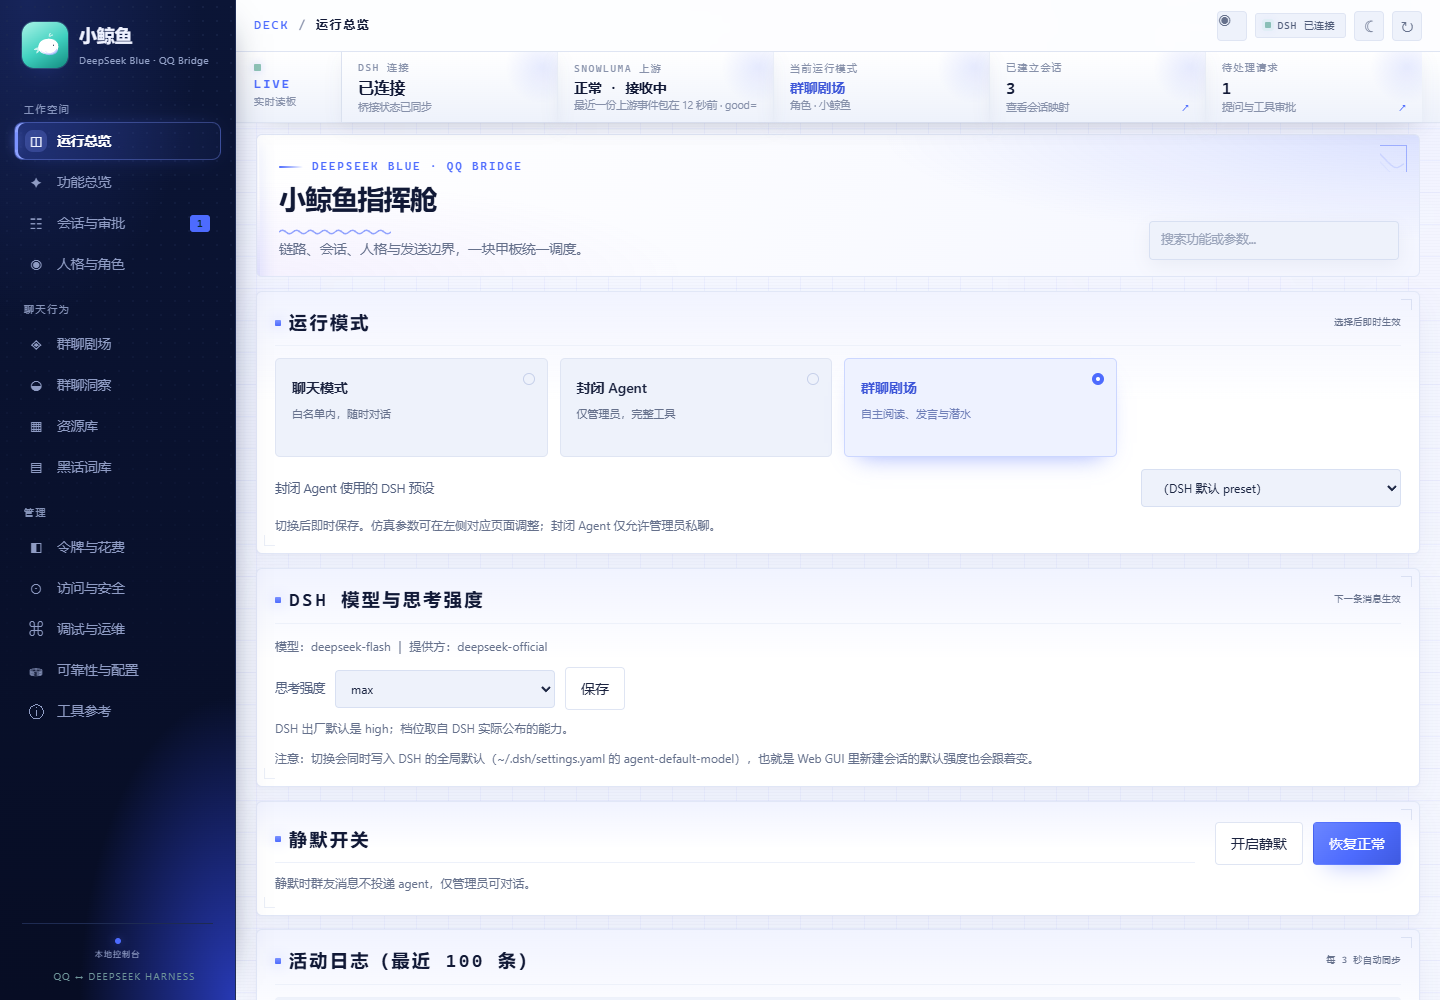
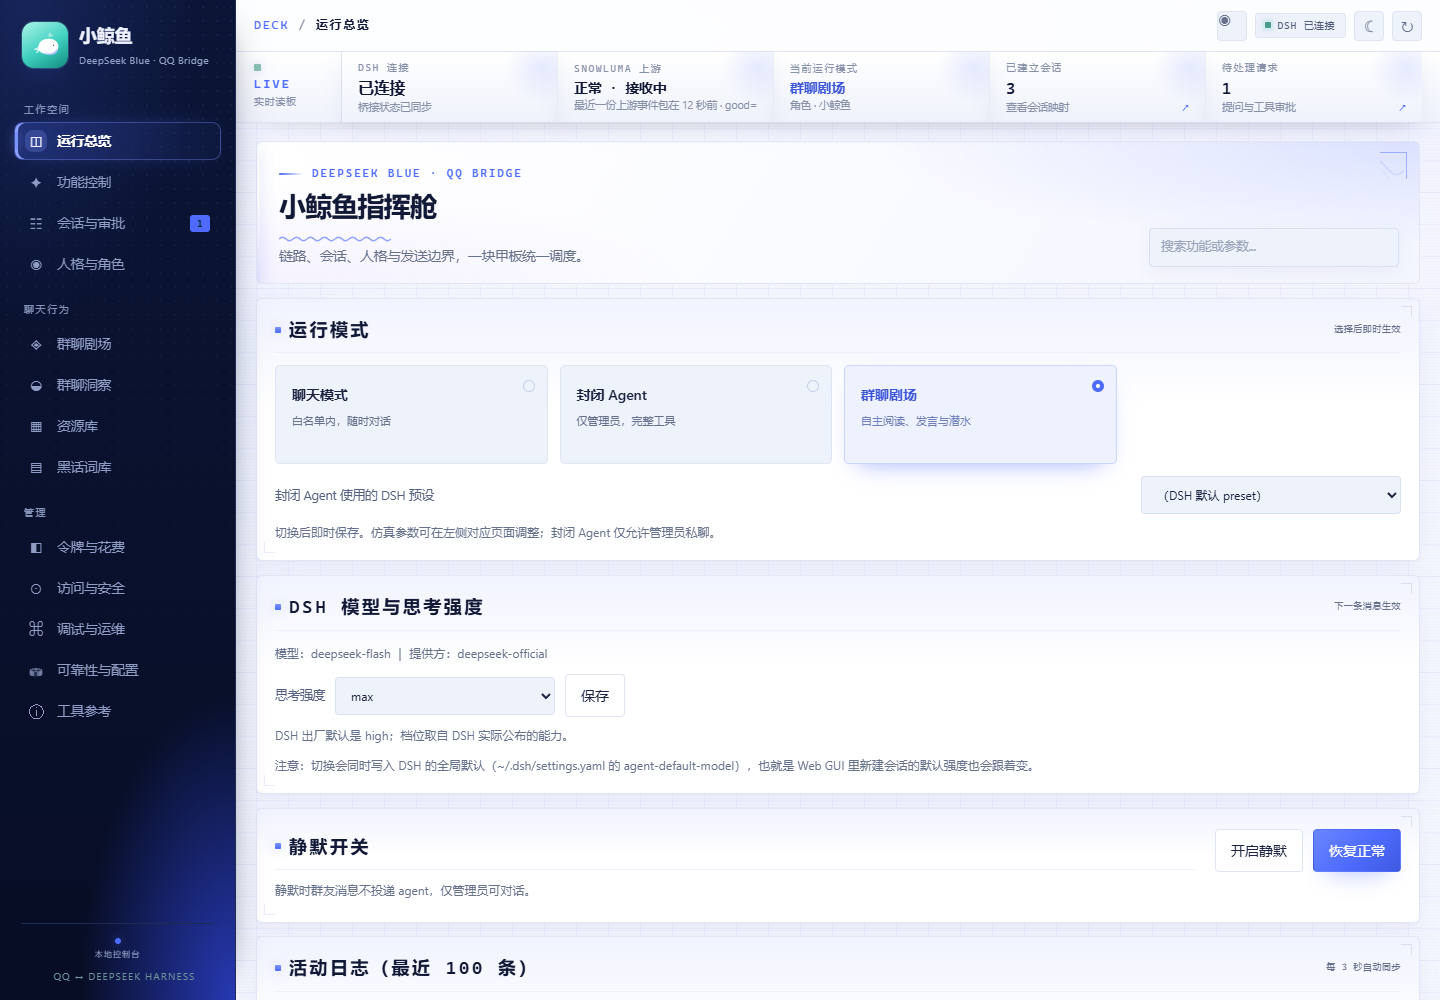
docs: 统一版本展示到 1.1.0 并刷新控制台截图
1.1.0 发版时只升了 package/lock，README、SECURITY、UPSTREAM、DSH_SETUP、
集成包与 MCP serverInfo 仍写 1.0.1。本次统一到 1.1.0，并用离线夹具重拍
浅色/深色/群聊剧场三张控制台截图（无真实数据）。

diff --git a/mcp/qq-actions.js b/mcp/qq-actions.js
@@ -298,7 +298,7 @@ async function legacyReadToolAllowed() {
   return String(status?.mode ?? '') === 'closed-agent';
 }
 
-const server = new McpServer({ name: 'snowluma-safe', version: '1.0.1' });
+const server = new McpServer({ name: 'snowluma-safe', version: '1.1.0' });
 
 // ── 工具开关必须在**注册期**生效，而不是只在校验期 ──────────────────────────
 //

diff --git a/mcp/web-search.js b/mcp/web-search.js
@@ -49,7 +49,7 @@ function sanitizeQuery(query) {
     .slice(0, 120);
 }
 
-const server = new McpServer({ name: 'web-search-safe', version: '1.0.1' });
+const server = new McpServer({ name: 'web-search-safe', version: '1.1.0' });
 
 server.tool(
   'web_search',

diff --git a/mcp/host.js b/mcp/host.js
@@ -71,7 +71,7 @@ async function gatewayInfo() {
   }
 }
 
-const server = new McpServer({ name: 'snowluma-host', version: '1.0.1' });
+const server = new McpServer({ name: 'snowluma-host', version: '1.1.0' });
 
 server.tool(
   'snowluma_status',

diff --git a/README.en.md b/README.en.md
@@ -9,7 +9,7 @@ She is present the way a friend is: she reads the room, picks her moment, rememb
 and actually does things when you ask.</p>
 
 <p align="center">
-  <img alt="version" src="https://img.shields.io/badge/version-1.0.1-5B8DEF?style=flat-square">
+  <img alt="version" src="https://img.shields.io/badge/version-1.1.0-5B8DEF?style=flat-square">
   <img alt="node" src="https://img.shields.io/badge/Node.js-%E2%89%A5%2022.13-339933?style=flat-square&logo=nodedotjs&logoColor=white">
   <img alt="platform" src="https://img.shields.io/badge/Windows-10%20%2F%2011-0078D4?style=flat-square&logo=windows&logoColor=white">
   <img alt="dsh" src="https://img.shields.io/badge/DSH-0.2.0--rc.2-1B1F3B?style=flat-square">
@@ -27,9 +27,9 @@ and actually does things when you ask.</p>
 </p>
 
 > [!NOTE]
-> Current version **v1.0.1**, verified item by item against **DSH 0.2.0-rc.2**
-> (`npm run verify:adaptation`). This is the first stable release of this repository; the
-> `v0.1.x` / `v0.2.x` tags belong to upstream
+> Current version **v1.1.0**, verified item by item against **DSH 0.2.0-rc.2**
+> (`npm run verify:adaptation`). The first stable release, `v1.0.0`, shipped on 2026-11-03;
+> the `v0.1.x` / `v0.2.x` tags belong to upstream
 > [Derpyu520/qq-bridge](https://github.com/Derpyu520/qq-bridge) and are unrelated to this project.
 
 **Contents**

diff --git a/README.md b/README.md
@@ -8,7 +8,7 @@
 她像群友一样在场：看气氛接话，记得你说过的事，需要的时候真的会动手。</p>
 
 <p align="center">
-  <img alt="version" src="https://img.shields.io/badge/version-1.0.1-5B8DEF?style=flat-square">
+  <img alt="version" src="https://img.shields.io/badge/version-1.1.0-5B8DEF?style=flat-square">
   <img alt="node" src="https://img.shields.io/badge/Node.js-%E2%89%A5%2022.13-339933?style=flat-square&logo=nodedotjs&logoColor=white">
   <img alt="platform" src="https://img.shields.io/badge/Windows-10%20%2F%2011-0078D4?style=flat-square&logo=windows&logoColor=white">
   <img alt="dsh" src="https://img.shields.io/badge/DSH-0.2.0--rc.2-1B1F3B?style=flat-square">
@@ -26,8 +26,8 @@
 </p>
 
 > [!NOTE]
-> 当前版本 **v1.0.1**，逐项适配 **DSH 0.2.0-rc.2**（`npm run verify:adaptation`）。
-> 这是本仓库首个稳定版；上游 [Derpyu520/qq-bridge](https://github.com/Derpyu520/qq-bridge)
+> 当前版本 **v1.1.0**，逐项适配 **DSH 0.2.0-rc.2**（`npm run verify:adaptation`）。
+> 首个稳定版 `v1.0.0` 于 2026-11-03 发布；上游 [Derpyu520/qq-bridge](https://github.com/Derpyu520/qq-bridge)
 > 的 `v0.1.x` / `v0.2.x` 标签与本仓库无关。
 
 **目录**

diff --git a/UPSTREAM.md b/UPSTREAM.md
@@ -17,7 +17,7 @@
 
 | 项 | 说明 |
 | --- | --- |
-| 当前版本 | `v1.0.1`（当前稳定版；首个稳定版 `v1.0.0` 于 2026-11-03 发布，不跟随上游标签） |
+| 当前版本 | `v1.1.0`（当前稳定版；首个稳定版 `v1.0.0` 于 2026-11-03 发布，不跟随上游标签） |
 | 代码基线 | 上游 `v0.2.0-r4` 之上的定制分支；本地大量功能（实时状态页、内心生活、提醒、图片库、可靠性内核等）为后续新增 |
 | DSH 适配 | 面向 DSH 0.2.0-rc.2 逐项实测（`npm run verify:adaptation`） |
 | 未合入的上游工作 | 上游后续的 DSH 0.2.1 适配（`{{cwd}}` 变量移除、`working_directory` 守卫名单扩充、`src/media-normalize.js` 等）尚未系统合入本仓库 |

diff --git a/CHANGELOG.md b/CHANGELOG.md
@@ -21,6 +21,8 @@
 ### 文档
 
 - 更正 1.0.3 的范围说明：开源发行包只带生活管家控制台界面骨架，后端（`lifeButler`、`life_*`、`/api/life`）未包含。
+- 版本展示统一到 `1.1.0`：README 中英徽章与版本说明、`SECURITY.md`、`UPSTREAM.md`、`DSH_SETUP.md`、DSH 集成包与三个 MCP serverInfo 从 `1.0.1` 更新（1.1.0 发版时遗漏）。
+- 刷新控制台截图（运行总览浅色/深色、群聊剧场）为 1.1.0 界面，使用 `tools/demo-console.mjs` 离线夹具生成，不含真实数据。
 
 ## 1.1.0 — 2026-11-03
 

diff --git a/docs/guides/DSH_SETUP.md b/docs/guides/DSH_SETUP.md
@@ -15,7 +15,7 @@
    cd xiaojingyu
    ```
 
-   > 默认分支 `main` 跟随最新提交；稳定版见 [Releases](https://github.com/Frostyume/xiaojingyu/releases)（当前 v1.0.1）；clone 下来直接用即可。
+   > 默认分支 `main` 跟随最新提交；稳定版见 [Releases](https://github.com/Frostyume/xiaojingyu/releases)（当前 v1.1.0）；clone 下来直接用即可。
 
 2. **安装依赖**：
 

diff --git a/SECURITY.md b/SECURITY.md
@@ -2,7 +2,7 @@
 
 ## 支持范围
 
-本仓库当前稳定版为 **v1.0.1**，`main` 分支跟随最新提交。安全修复只在最新版本上提供，历史版本与个人分支不提供安全支持。
+本仓库当前稳定版为 **v1.1.0**，`main` 分支跟随最新提交。安全修复只在最新版本上提供，历史版本与个人分支不提供安全支持。
 
 ## 报告漏洞
 
